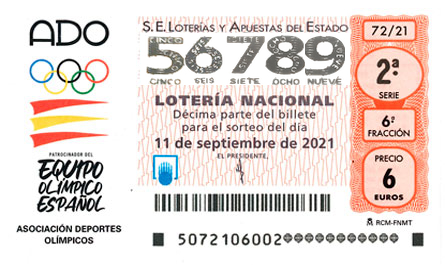
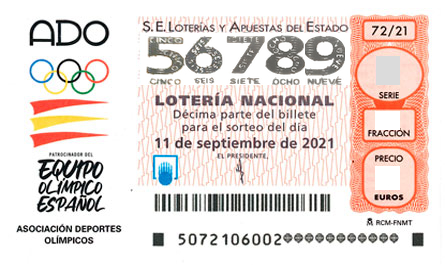
Including fraction and serie processing.

Changed region(s): [[0.818, 0.6038, 0.9056, 0.7245], [0.818, 0.3925, 0.9056, 0.5132], [0.8472, 0.2113, 0.9056, 0.3321]]

diff --git a/src/imgproc.js b/src/imgproc.js
@@ -47,6 +47,7 @@ var ImageParams = {
     digit2: { x: 225, y: 35, src: '../imgs/dig_2.png' },
     digit3: { x: 265, y: 35, src: '../imgs/dig_3.png' },
     digit4: { x: 305, y: 35, src: '../imgs/dig_4.png' },
+    serie: { x_ini: 375, x_end: 400, y_ini: 55, y_end: 85 },
 };
 var ImageFiles = {
     digit0: '../imgs/dig_0.png',
@@ -61,12 +62,12 @@ var ImageFiles = {
     digit9: '../imgs/dig_9.png',
 };
 var addNumber = function (_a) {
-    var numbers = _a.numbers, serie = _a.serie;
+    var numbers = _a.numbers, serie = _a.serie, fraction = _a.fraction, price = _a.price;
     return __awaiter(void 0, void 0, void 0, function () {
         var font, callback, digitsImgs, _b;
         return __generator(this, function (_c) {
             switch (_c.label) {
-                case 0: return [4 /*yield*/, jimp_1.default.loadFont(jimp_1.default.FONT_SANS_64_BLACK)];
+                case 0: return [4 /*yield*/, jimp_1.default.loadFont(jimp_1.default.FONT_SANS_32_BLACK)];
                 case 1:
                     font = _c.sent();
                     callback = function () { };
@@ -125,16 +126,40 @@ var addNumber = function (_a) {
                         .then(function (image) {
                         var w = image.bitmap.width;
                         var h = image.bitmap.height;
+                        var byteColorSerie = 0xff;
+                        // image.bitmap.data[ImageParams.serie.y_ini * w * 4 + ImageParams.serie.x_ini];
                         for (var y = 0; y < h; y++) {
                             for (var x = 0; x < w * 4; x++) {
+                                //Números
                                 if (x > 140 * 4 && x < 350 * 4 && y > 32 && y < 85) {
-                                    var byte = image.bitmap.data[y * w * 4 + x];
-                                    // if (byte >= 0 && byte <= 90){
                                     image.bitmap.data[y * w * 4 + x] = 0xff;
-                                    // }
+                                }
+                                //Serie
+                                if (x > ImageParams.serie.x_ini * 4 &&
+                                    x < ImageParams.serie.x_end * 4 &&
+                                    y > ImageParams.serie.y_ini &&
+                                    y < ImageParams.serie.y_end) {
+                                    if (byteColorSerie == 0xff) {
+                                        byteColorSerie = image.bitmap.data[y * w * 4 + x];
+                                        console.log("bytecolor: " + byteColorSerie);
+                                        console.log("image.bitmap.data[y * w * 4 + x]: " + image.bitmap.data[y * w * 4 + x]);
+                                    }
+                                    image.bitmap.data[y * w * 4 + x] = byteColorSerie;
+                                }
+                                //Fracción
+                                if (x > 375 * 4 && x < 400 * 4 && y > 110 && y < 130) {
+                                    var byte = image.bitmap.data[y * w * 4 + x];
+                                    image.bitmap.data[y * w * 4 + x] = 0xff;
+                                }
+                                //Precio
+                                if (x > 375 * 4 && x < 400 * 4 && y > 165 && y < 190) {
+                                    var byte = image.bitmap.data[y * w * 4 + x];
+                                    image.bitmap.data[y * w * 4 + x] = 0xff;
                                 }
                             }
                         }
+                        //print serie
+                        // image.print(font, 375, 55, serie);
                         var values = numbers.split('');
                         for (var i = 0; i < values.length; i++) {
                             var key = 'digit' + i;

diff --git a/src/imgproc.ts b/src/imgproc.ts
@@ -6,29 +6,34 @@ const ImageParams: any = {
   digit2: { x: 225, y: 35, src: '../imgs/dig_2.png' },
   digit3: { x: 265, y: 35, src: '../imgs/dig_3.png' },
   digit4: { x: 305, y: 35, src: '../imgs/dig_4.png' },
+  serie: { x_ini: 375, x_end: 400, y_ini: 55, y_end: 85 },
 };
 
 const ImageFiles = {
-    digit0: '../imgs/dig_0.png' ,
-    digit1: '../imgs/dig_1.png' ,
-    digit2:  '../imgs/dig_2.png' ,
-    digit3: '../imgs/dig_3.png' ,
-    digit4:  '../imgs/dig_4.png', 
-    digit5:  '../imgs/dig_5.png', 
-    digit6:  '../imgs/dig_6.png',
-    digit7:  '../imgs/dig_7.png',
-    digit8: '../imgs/dig_8.png' ,
-    digit9:  '../imgs/dig_9.png' ,
+  digit0: '../imgs/dig_0.png',
+  digit1: '../imgs/dig_1.png',
+  digit2: '../imgs/dig_2.png',
+  digit3: '../imgs/dig_3.png',
+  digit4: '../imgs/dig_4.png',
+  digit5: '../imgs/dig_5.png',
+  digit6: '../imgs/dig_6.png',
+  digit7: '../imgs/dig_7.png',
+  digit8: '../imgs/dig_8.png',
+  digit9: '../imgs/dig_9.png',
 };
 
 export const addNumber = async ({
   numbers,
   serie,
+  fraction,
+  price,
 }: {
   numbers: string;
   serie: string;
+  fraction: string;
+  price: string;
 }) => {
-  let font = await Jimp.loadFont(Jimp.FONT_SANS_64_BLACK);
+  let font = await Jimp.loadFont(Jimp.FONT_SANS_32_BLACK);
   const callback = function () {};
   const digitsImgs: Jimp[] = [
     await Jimp.read(ImageFiles.digit0),
@@ -48,16 +53,45 @@ export const addNumber = async ({
     .then((image) => {
       const w = image.bitmap.width;
       const h = image.bitmap.height;
+      let byteColorSerie = 0xff;
+        // image.bitmap.data[ImageParams.serie.y_ini * w * 4 + ImageParams.serie.x_ini];
+
       for (let y = 0; y < h; y++) {
         for (let x = 0; x < w * 4; x++) {
+          //Números
           if (x > 140 * 4 && x < 350 * 4 && y > 32 && y < 85) {
-            let byte = image.bitmap.data[y * w * 4 + x];
-            // if (byte >= 0 && byte <= 90){
             image.bitmap.data[y * w * 4 + x] = 0xff;
-            // }
+          }
+          //Serie
+          if (
+            x > ImageParams.serie.x_ini * 4 &&
+            x < ImageParams.serie.x_end * 4 &&
+            y > ImageParams.serie.y_ini &&
+            y < ImageParams.serie.y_end
+          ) {
+            if (byteColorSerie == 0xff) {
+              byteColorSerie = image.bitmap.data[y * w * 4 + x];
+              console.log("bytecolor: "+byteColorSerie);
+              console.log("image.bitmap.data[y * w * 4 + x]: "+image.bitmap.data[y * w * 4 + x]);
+            }
+            image.bitmap.data[y * w * 4 + x] = byteColorSerie;
+          }
+
+          //Fracción
+          if (x > 375 * 4 && x < 400 * 4 && y > 110 && y < 130) {
+            let byte = image.bitmap.data[y * w * 4 + x];
+            image.bitmap.data[y * w * 4 + x] = 0xff;
+          }
+
+          //Precio
+          if (x > 375 * 4 && x < 400 * 4 && y > 165 && y < 190) {
+            let byte = image.bitmap.data[y * w * 4 + x];
+            image.bitmap.data[y * w * 4 + x] = 0xff;
           }
         }
       }
+      //print serie
+      // image.print(font, 375, 55, serie);
 
       const values = numbers.split('');
       for (let i = 0; i < values.length; i++) {
@@ -69,6 +103,7 @@ export const addNumber = async ({
           callback
         );
       }
+
       image.write('img/output.jpg');
     })
     .catch((err) => {
